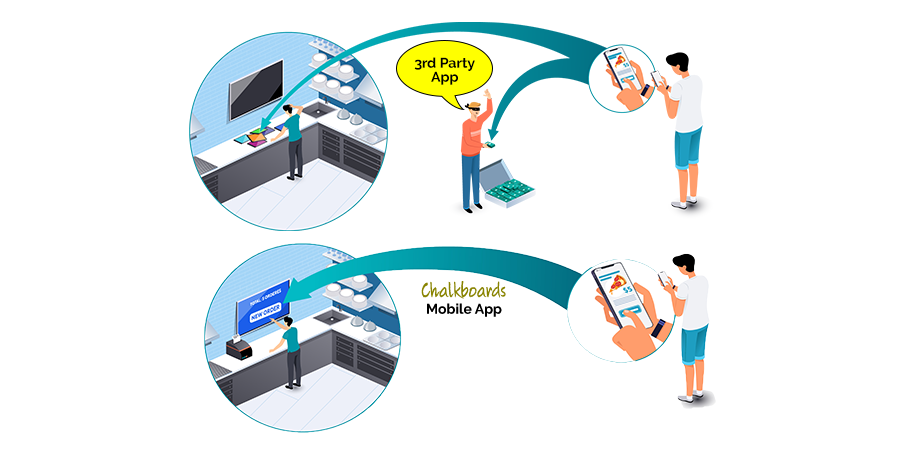
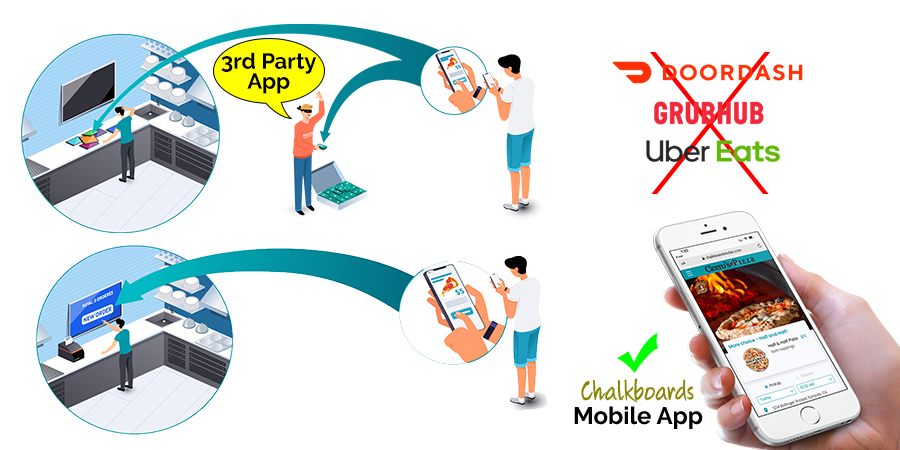
intermediate check-in

diff --git a/app/app_sitelette/sitefiles/pages/content_products.html b/app/app_sitelette/sitefiles/pages/content_products.html
@@ -377,85 +377,48 @@
     <!--END Kiosk space-saving dual,  PICTURE ON LEFT -->
   </div>
   <!--END self service kiosks -->
-
   <!-- BEGIN integrated mobile ordering -->
   <div  id="integrated-mobile" class="container-fluid  " style="padding-top:100px;">
     <div class="row  text-center paragraph_sub_heading ">
       <H1>Integrated Mobile Ordering</H1>
-       <div class="  col-lg-12  col-md-12   col-sm-12  col-xs-12   "> 
+      <div class="  col-lg-12  col-md-12   col-sm-12  col-xs-12   ">
         The only POS that comes with its own mobile app, out of the box.
-        <img class="img-responsive center-block" src="sitefiles/images/landing/products/mobile_pos_integration_graphic.png"   /> 
-      </div>
-    </div>
-    <!-- direct to kitchen -->
-    <div class="row ">
-      <div class="  col-lg-12  col-md-12   col-sm-12  col-xs-12    ">
-        <H1  class="margin-top-40 side-padding text-left">
-        <span class="orinoco-color"> Direct  </span> to your kitchen
-        </H1>
+        <img class="img-responsive center-block" src="sitefiles/images/landing/products/mobile_pos_integration_graphic.png"   />
+        <h3> How is this possible? Its possible because the Chalkboards POS comes with its own, built-in QR code </h3>
       </div>
     </div>
     
-    <!--BEGIN direct to kitchen PICTURE ON LEFT -->
-    <div class="row row-striped vertically-centered-divs">
-      <div class="col-xs-12 col-sm-12  col-md-6 col-lg-6 ">
-        <img src="sitefiles/images/landing/products/handheld_rugline_detail.png" class="  img-responsive side-padding " />
-      </div>
-      <div class="col-xs-12 col-sm-12 col-md-6 col-lg-6 ">
-        <div class="paragraph_heading text-center" style=" line-height:1em;">
-          Handhelds eliminate the need
-          to run back-and-forth
-        </div>
-        <div class="paragraph_text" style="padding-top:30px; text-align:left;">
-          <ul>
-            <li>
-              Transmit order directly to kitchen
-            </li>
-            <li>
-              Re-open orders, modify items.
-            </li>
-            <li>
-              Move around between tables.
-            </li>
-            <li>
-              Easy to use, lightweight, no errors.
-            </li>
-          </ul>
-        </div>
-      </div>
-    </div>
-    <!--END direct to kitchen,  PICTURE ON LEFT -->
     
     <!-- QR code  -->
     <div class="row ">
       <div class="  col-lg-12  col-md-12   col-sm-12  col-xs-12    ">
         <H1  class="margin-top-40 side-padding text-left">
-        <span class="orinoco-color"> QR  </span> codes everywhere
+        <span class="orinoco-color"> QR Code  </span> is the solution
         </H1>
       </div>
     </div>
     <!--BEGIN  QR code  PICTURE ON LEFT -->
     <div class="row row-striped vertically-centered-divs">
       <div class="col-xs-12 col-sm-12  col-md-6 col-lg-6 ">
-        <img src="sitefiles/images/landing/products/tablet_unknown_detail.png" class="  img-responsive side-padding " />
+        <img src="sitefiles/images/landing/products/mobile_direct_qr_youdash.png" class="  img-responsive side-padding " />
       </div>
       <div class="col-xs-12 col-sm-12 col-md-6 col-lg-6 ">
         <div class="paragraph_heading text-center" style=" line-height:1em;">
-          Tablets are an economical solution for staff running back-and-forth
+          Let customers reach you directly via your QR code
         </div>
         <div class="paragraph_text" style="padding-top:30px; text-align:left;">
           <ul>
             <li>
-              Larger (10”) screen makes interactions easier
+              QR code lets customers bypass search engines and 3rd parties
             </li>
             <li>
-              Lower cost.
+              But you must make it easy for them to find your QR
             </li>
             <li>
-              Option to leave with customers when appropriate.
+              So put it everywhere, on labels, cards, receipts, emails...
             </li>
             <li>
-              Easy to share modifier info with customers
+              Finally, you can end the tyranny of the middle-men
             </li>
           </ul>
         </div>
@@ -467,32 +430,32 @@
     <div class="row ">
       <div class="  col-lg-12  col-md-12   col-sm-12  col-xs-12    ">
         <H1  class="margin-top-40 side-padding text-left">
-        <span class="orinoco-color"> App  </span> without downloading an app
+        <span class="orinoco-color"> Even better,  </span> your QR is also your App
         </H1>
       </div>
     </div>
     <!--BEGIN youdash you save  PICTURE ON LEFT -->
     <div class="row row-striped vertically-centered-divs">
       <div class="col-xs-12 col-sm-12  col-md-6 col-lg-6 ">
-        <img src="sitefiles/images/landing/products/server_pager_detail.png" class="  img-responsive side-padding " />
+        <img src="sitefiles/images/landing/products/mobile_qr_to_app.png" class="  img-responsive side-padding " />
       </div>
       <div class="col-xs-12 col-sm-12 col-md-6 col-lg-6 ">
         <div class="paragraph_heading text-center" style=" line-height:1em;">
-          No need to keep checking up on customers
+          These are not your ordinary QR codes
         </div>
         <div class="paragraph_text" style="padding-top:30px; text-align:left;">
           <ul>
             <li>
-              Small, thin buttons, long battery life
+              Scan the QR and "Add to Home Screen", and they turn into an App
             </li>
             <li>
-              Perfect with QR menus, customer rings when ready to order
+              Next time, your customers doesn't need to scan anything
             </li>
             <li>
-              Wrist pager on server shows table number
+              Just tap the app, and place an order directly to you
             </li>
             <li>
-              Additionally, floorplan with animation shows which table needs service.
+              No AppStore fees, nothing to download, nothing to install
             </li>
           </ul>
         </div>
@@ -500,6 +463,42 @@
     </div>
     <!--END youdash you save ,  PICTURE ON LEFT -->
     
+    <!-- BEGIN direct to kitchen -->
+    <div class="row ">
+      <div class="  col-lg-12  col-md-12   col-sm-12  col-xs-12    ">
+        <H1  class="margin-top-40 side-padding text-left">
+        <span class="orinoco-color"> Direct  </span> to your kitchen
+        </H1>
+      </div>
+    </div>
+    <!--BEGIN direct to kitchen PICTURE ON LEFT -->
+    <div class="row row-striped vertically-centered-divs">
+      <div class="col-xs-12 col-sm-12  col-md-6 col-lg-6 ">
+        <img src="sitefiles/images/landing/products/mobile_pos_integration_no_fee.png" class="  img-responsive side-padding " />
+      </div>
+      <div class="col-xs-12 col-sm-12 col-md-6 col-lg-6 ">
+        <div class="paragraph_heading text-center" style=" line-height:1em;">
+          Customers can order directly and pickup
+        </div>
+        <div class="paragraph_text" style="padding-top:30px; text-align:left;">
+          <ul>
+            <li>
+              Direct orders save time and money
+            </li>
+            <li>
+              Your app is in perfect sync with your menu in-store
+            </li>
+            <li>
+              Avoid paying any fees or commissions to 3rd parties
+            </li>
+            <li>
+              Keep everything you earn
+            </li>
+          </ul>
+        </div>
+      </div>
+    </div>
+    <!--END direct to kitchen,  PICTURE ON LEFT -->
   </div>
   <!-- END qr mobile ordering -->
 </section>
